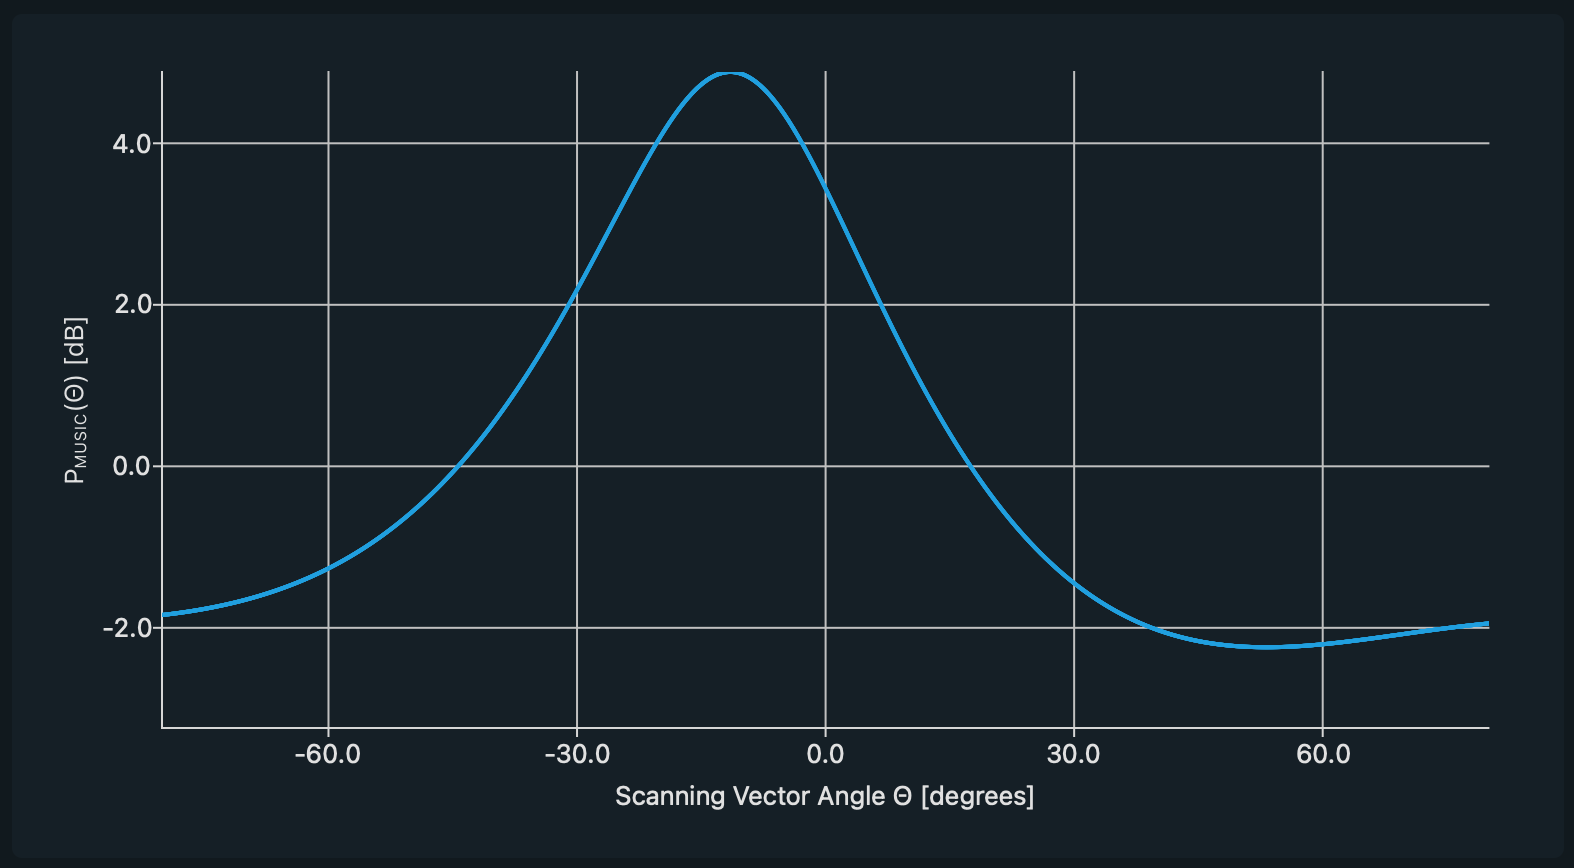
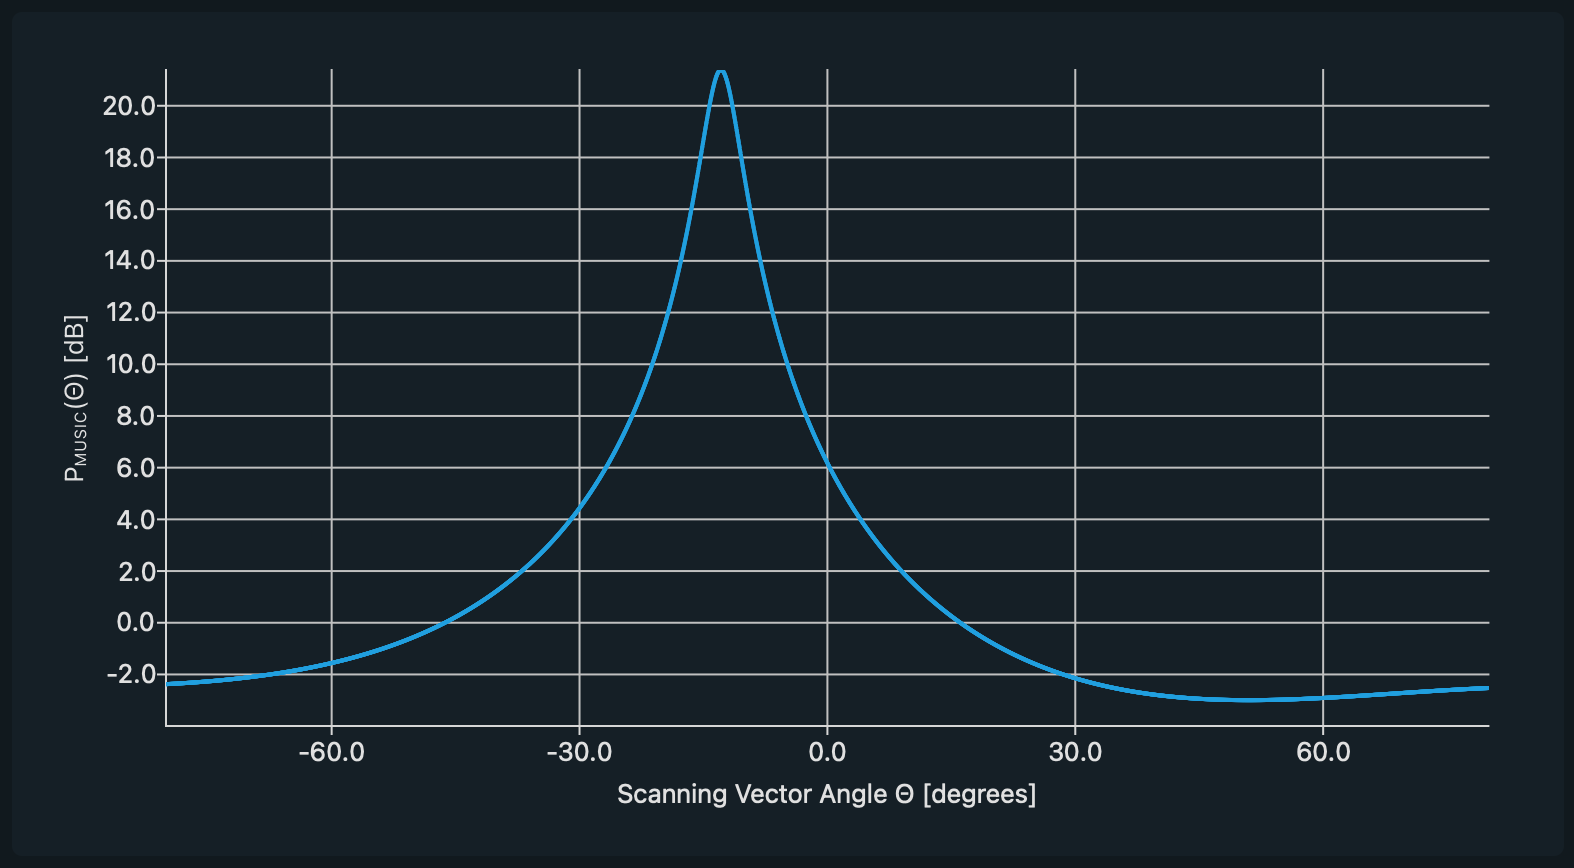
Measurement

diff --git a/matlab/music_125MHz_M64_1m_0deg/cfr.m b/matlab/music_125MHz_M64_1m_0deg/cfr.m
@@ -1,38 +1,38 @@
 % Auto-generated MATLAB script
 clear;
 CH0_315 = [ ...
-0 + 1i*0, -0.756493 + 1i*1.19057, -0.694099 + 1i*1.2112, -0.630553 + 1i*1.22654, -0.566332 + 1i*1.23655,  ...
--0.501912 + 1i*1.24124, -0.437751 + 1i*1.24066, -0.374297 + 1i*1.23486, 0 + 1i*0, 0 + 1i*0,  ...
-0 + 1i*0, 0 + 1i*0, 0 + 1i*0, -0.0314182 + 1i*1.09814, 0.0159527 + 1i*1.06007,  ...
-0.0596516 + 1i*1.01825, 0.0993877 + 1i*0.972929, 0.13489 + 1i*0.924388, 0.165908 + 1i*0.872912, 0.192204 + 1i*0.818799,  ...
-0.21356 + 1i*0.762356, 0.229773 + 1i*0.703899, 0.240657 + 1i*0.643752, 0.246038 + 1i*0.582246, 0.24576 + 1i*0.519722,  ...
-0.239678 + 1i*0.456524, 0 + 1i*0, 0 + 1i*0, 0 + 1i*0, 0 + 1i*0,  ...
 0 + 1i*0, 0 + 1i*0, 0 + 1i*0, 0 + 1i*0, 0 + 1i*0,  ...
-0 + 1i*0, 0 + 1i*0, 0 + 1i*0, 0 + 1i*0, -0.601522 + 1i*-0.11979,  ...
--0.694872 + 1i*-0.106068, -0.781809 + 1i*-0.083295, -0.861917 + 1i*-0.0522893, -0.934846 + 1i*-0.0138833, -1.00031 + 1i*0.0310843,  ...
--1.05809 + 1i*0.0817752, -1.10804 + 1i*0.137354, -1.15005 + 1i*0.196996, -1.18411 + 1i*0.259891, -1.21024 + 1i*0.325249,  ...
--1.22853 + 1i*0.392305, -1.23912 + 1i*0.460319, -1.24221 + 1i*0.528585, -1.23804 + 1i*0.596432, -1.2269 + 1i*0.663228,  ...
--1.2091 + 1i*0.728378, -1.185 + 1i*0.791334, -1.15501 + 1i*0.851588, -1.11953 + 1i*0.908678, -1.079 + 1i*0.96219,  ...
--1.03389 + 1i*1.01175, -0.984672 + 1i*1.05704, -0.931828 + 1i*1.09778, -0.875853 + 1i*1.13374];
-CH1_315 = [ ...
-0 + 1i*0, -2.72753 + 1i*-0.0173477, -2.70131 + 1i*-0.108984, -2.66736 + 1i*-0.198517, -2.62592 + 1i*-0.28539,  ...
--2.57727 + 1i*-0.369067, -2.52171 + 1i*-0.449037, -2.45954 + 1i*-0.524811, 0 + 1i*0, 0 + 1i*0,  ...
-0 + 1i*0, 0 + 1i*0, 0 + 1i*0, -1.96777 + 1i*-0.866719, -1.86968 + 1i*-0.901247,  ...
--1.76811 + 1i*-0.92843, -1.66353 + 1i*-0.947961, -1.5564 + 1i*-0.959551, -1.44722 + 1i*-0.962927, -1.33649 + 1i*-0.957837,  ...
--1.22473 + 1i*-0.944042, -1.11249 + 1i*-0.921322, -1.0003 + 1i*-0.889474, -0.888758 + 1i*-0.848313, -0.778452 + 1i*-0.797673,  ...
--0.67 + 1i*-0.737408, 0 + 1i*0, 0 + 1i*0, 0 + 1i*0, 0 + 1i*0,  ...
+0 + 1i*0, 0 + 1i*0, -0.260548 + 1i*0.573105, -0.310202 + 1i*0.655967, -0.359087 + 1i*0.731986,  ...
+-0.40693 + 1i*0.801499, -0.45351 + 1i*0.864824, -0.498653 + 1i*0.922261, -0.542223 + 1i*0.974091, -0.584119 + 1i*1.02058,  ...
+-0.624266 + 1i*1.06197, -0.662611 + 1i*1.09849, -0.69912 + 1i*1.13036, -0.733773 + 1i*1.15779, -0.766561 + 1i*1.18096,  ...
+-0.797484 + 1i*1.20006, -0.826547 + 1i*1.21526, -0.853758 + 1i*1.22672, -0.879127 + 1i*1.23459, -0.902662 + 1i*1.23904,  ...
+-0.924373 + 1i*1.24019, -0.944264 + 1i*1.23819, -0.962337 + 1i*1.23319, -0.978589 + 1i*1.2253, -0.993014 + 1i*1.21467,  ...
+-1.0056 + 1i*1.20143, -1.01633 + 1i*1.18569, 0 + 1i*0, -1.03212 + 1i*1.14727, -1.03712 + 1i*1.12485,  ...
+-1.04014 + 1i*1.10045, -1.04115 + 1i*1.0742, -1.04009 + 1i*1.04623, -1.03691 + 1i*1.01667, -1.03157 + 1i*0.98566,  ...
 0 + 1i*0, 0 + 1i*0, 0 + 1i*0, 0 + 1i*0, 0 + 1i*0,  ...
-0 + 1i*0, 0 + 1i*0, 0 + 1i*0, 0 + 1i*0, -0.711751 + 1i*0.846493,  ...
--0.852184 + 1i*0.948085, -0.992553 + 1i*1.03319, -1.13194 + 1i*1.10239, -1.26948 + 1i*1.15633, -1.40435 + 1i*1.19568,  ...
--1.53578 + 1i*1.22111, -1.66307 + 1i*1.23336, -1.78553 + 1i*1.23316, -1.90258 + 1i*1.22126, -2.01365 + 1i*1.19845,  ...
--2.11824 + 1i*1.16549, -2.21592 + 1i*1.12317, -2.30628 + 1i*1.0723, -2.38899 + 1i*1.01367, -2.46376 + 1i*0.948055,  ...
--2.53036 + 1i*0.876256, -2.5886 + 1i*0.799048, -2.63834 + 1i*0.717199, -2.67948 + 1i*0.631466, -2.71198 + 1i*0.542589,  ...
--2.73583 + 1i*0.451296, -2.75104 + 1i*0.358293, -2.75771 + 1i*0.26427, -2.75591 + 1i*0.169894];
+-0.950913 + 1i*0.776087, -0.928836 + 1i*0.738405, -0.904145 + 1i*0.70025, -0.876788 + 1i*0.661728, -0.846718 + 1i*0.622935,  ...
+-0.813887 + 1i*0.583962, -0.778255 + 1i*0.544885, -0.739783 + 1i*0.505769, -0.698437 + 1i*0.466664, -0.65419 + 1i*0.427604,  ...
+-0.607015 + 1i*0.3886, -0.556895 + 1i*0.349644, -0.503818 + 1i*0.310703, 0 + 1i*0, 0 + 1i*0,  ...
+0 + 1i*0, 0 + 1i*0, 0 + 1i*0, 0 + 1i*0];
+CH1_314 = [ ...
+0 + 1i*0, 0 + 1i*0, 0 + 1i*0, 0 + 1i*0, 0 + 1i*0,  ...
+0 + 1i*0, 0 + 1i*0, -0.691818 + 1i*0.126097, -0.799543 + 1i*0.145254, -0.900235 + 1i*0.163143,  ...
+-0.99412 + 1i*0.179839, -1.08142 + 1i*0.195398, -1.16236 + 1i*0.209869, -1.23714 + 1i*0.22329, -1.30598 + 1i*0.235689,  ...
+-1.36908 + 1i*0.247093, -1.42665 + 1i*0.25752, -1.47886 + 1i*0.266989, -1.52592 + 1i*0.275513, -1.568 + 1i*0.283106,  ...
+-1.60527 + 1i*0.289782, -1.63791 + 1i*0.295556, -1.66608 + 1i*0.300443, -1.68993 + 1i*0.304459, -1.70962 + 1i*0.307623,  ...
+-1.72528 + 1i*0.309956, -1.73705 + 1i*0.311481, -1.74507 + 1i*0.312224, -1.74945 + 1i*0.312213, -1.75031 + 1i*0.311476,  ...
+-1.74776 + 1i*0.310047, -1.7419 + 1i*0.307961, 0 + 1i*0, -1.72065 + 1i*0.301962, -1.70544 + 1i*0.298125,  ...
+-1.68726 + 1i*0.293784, -1.6662 + 1i*0.288976, -1.64232 + 1i*0.283744, -1.61567 + 1i*0.278127, -1.58632 + 1i*0.27216,  ...
+0 + 1i*0, 0 + 1i*0, 0 + 1i*0, 0 + 1i*0, 0 + 1i*0,  ...
+-1.35563 + 1i*0.230899, -1.30835 + 1i*0.223339, -1.25859 + 1i*0.215616, -1.20635 + 1i*0.207727, -1.15163 + 1i*0.199661,  ...
+-1.09443 + 1i*0.191392, -1.03473 + 1i*0.182887, -0.972532 + 1i*0.1741, -0.907809 + 1i*0.16497, -0.840541 + 1i*0.155419,  ...
+-0.770706 + 1i*0.145356, -0.698277 + 1i*0.134668, -0.623225 + 1i*0.123223, 0 + 1i*0, 0 + 1i*0,  ...
+0 + 1i*0, 0 + 1i*0, 0 + 1i*0, 0 + 1i*0];
 figure;subplot(2,1,1); hold on;plot(abs(CH0_315), 'DisplayName', 'CH0_315');title('Channel Frequency Response Gain'); legend; grid on;
 subplot(2,1,2); hold on;plot(angle(CH0_315), 'DisplayName', 'CH0_315');title('Channel Frequency Response Phase'); legend; grid on;
 figure;plot(real(CH0_315), imag(CH0_315), '.', 'DisplayName', 'CH0_315'); hold on;title('CFR'); xlabel('Real'); ylabel('Imag'); axis equal; legend; grid on;
 
-figure;subplot(2,1,1); hold on;plot(abs(CH1_315), 'DisplayName', 'CH1_315');title('Channel Frequency Response Gain'); legend; grid on;
-subplot(2,1,2); hold on;plot(angle(CH1_315), 'DisplayName', 'CH1_315');title('Channel Frequency Response Phase'); legend; grid on;
-figure;plot(real(CH1_315), imag(CH1_315), '.', 'DisplayName', 'CH1_315'); hold on;title('CFR'); xlabel('Real'); ylabel('Imag'); axis equal; legend; grid on;
+figure;subplot(2,1,1); hold on;plot(abs(CH1_314), 'DisplayName', 'CH1_314');title('Channel Frequency Response Gain'); legend; grid on;
+subplot(2,1,2); hold on;plot(angle(CH1_314), 'DisplayName', 'CH1_314');title('Channel Frequency Response Phase'); legend; grid on;
+figure;plot(real(CH1_314), imag(CH1_314), '.', 'DisplayName', 'CH1_314'); hold on;title('CFR'); xlabel('Real'); ylabel('Imag'); axis equal; legend; grid on;
 

diff --git a/matlab/music_125MHz_M64_1m_0deg/cbdata.m b/matlab/music_125MHz_M64_1m_0deg/cbdata.m
@@ -1,26 +1,26 @@
 % Auto-generated MATLAB script
 clear;
-CH1_315 = [ ...
--1.13991 + 1i*0.0117758, -0.547915 + 1i*0.0102773, -1.17759 + 1i*0.00883894, 0.687242 + 1i*0.0126127, 1.10613 + 1i*0.0157179,  ...
-1.33475 + 1i*-0.000412613, 0.824223 + 1i*-0.00377806, 0.921548 + 1i*-0.00880509, -1.06165 + 1i*-0.0277397, -0.612795 + 1i*-0.00449629,  ...
-1.97696 + 1i*0.00432433, -1.17954 + 1i*-0.0259629, 1.14707 + 1i*0.0109635, 1.66981 + 1i*-0.00446435, -0.851286 + 1i*-0.0116661,  ...
--1.00199 + 1i*-0.00553581, -1.24281 + 1i*-0.00372911, -1.00872 + 1i*-0.0199412, 1.1565 + 1i*-0.0226182, 1.02327 + 1i*-0.000667423,  ...
--0.891021 + 1i*0.00732467, -0.561961 + 1i*0.00758465, -0.671515 + 1i*-0.000204414, -0.691531 + 1i*-0.00244347, 1.48383 + 1i*0.00218936,  ...
--1.22131 + 1i*0.00151374, -1.76612 + 1i*0.0291747, 1.14379 + 1i*0.0112159, 1.17002 + 1i*-0.0061584, -0.711653 + 1i*0.0129049,  ...
--1.30392 + 1i*0.0271936, 0.858175 + 1i*0.0171559, 1.14183 + 1i*0.0118412, -1.09192 + 1i*0.0210863, 1.18177 + 1i*0.00451602,  ...
--1.25646 + 1i*0.014564, -0.725058 + 1i*0.0161166, -1.37543 + 1i*0.0221847, -0.736798 + 1i*0.0157939, -1.24062 + 1i*0.0265669 ...
+CH1_314 = [ ...
+-1.13523 + 1i*0.0313753, -0.561437 + 1i*0.0160359, -1.19143 + 1i*0.0233465, 0.669344 + 1i*-0.00138872, 1.10064 + 1i*0.00255027,  ...
+1.32846 + 1i*-0.0104956, 0.841756 + 1i*-0.00928016, 0.923082 + 1i*-0.0277279, -1.04914 + 1i*-0.0148106, -0.616325 + 1i*0.00869305,  ...
+1.9821 + 1i*-0.0162873, -1.16557 + 1i*-0.0138167, 1.13763 + 1i*0.00042662, 1.68378 + 1i*0.0260591, -0.818951 + 1i*-0.0158932,  ...
+-1.00281 + 1i*0.00649786, -1.24027 + 1i*-0.0152866, -1.0382 + 1i*-0.0341153, 1.13994 + 1i*0.00606872, 1.01702 + 1i*-0.00174995,  ...
+-0.875229 + 1i*0.0143365, -0.576319 + 1i*0.00865679, -0.687217 + 1i*0.00108128, -0.699277 + 1i*-0.00122319, 1.49043 + 1i*-0.0154509,  ...
+-1.21256 + 1i*0.0102425, -1.77578 + 1i*0.0193692, 1.12231 + 1i*0.000380427, 1.15664 + 1i*-0.00865785, -0.698689 + 1i*0.00991461,  ...
+-1.29693 + 1i*0.00919054, 0.844781 + 1i*0.0100074, 1.15008 + 1i*-0.00576032, -1.08255 + 1i*0.0108453, 1.18431 + 1i*-0.00238316,  ...
+-1.23831 + 1i*0.0154847, -0.708295 + 1i*0.0110833, -1.3655 + 1i*0.033489, -0.730446 + 1i*0.0314685, -1.23773 + 1i*0.0281864 ...
 ];
 CH0_315 = [ ...
--1.15187 + 1i*0.00682783, -0.589057 + 1i*0.0039002, -1.24641 + 1i*0.0154662, 0.635991 + 1i*0.0087477, 1.11167 + 1i*-0.00173488,  ...
-1.37957 + 1i*-0.023421, 0.844288 + 1i*0.00941002, 0.963491 + 1i*-0.0175464, -1.043 + 1i*0.0368126, -0.641413 + 1i*0.0562358,  ...
-1.98491 + 1i*-0.0129439, -1.20425 + 1i*0.0217459, 1.07596 + 1i*-0.00581323, 1.71343 + 1i*-0.0413048, -0.749721 + 1i*0.0367071,  ...
--0.963903 + 1i*0.0545623, -1.27482 + 1i*0.0215292, -1.06903 + 1i*0.0425746, 1.12565 + 1i*-0.00448872, 1.06968 + 1i*-0.0170377,  ...
--0.807645 + 1i*0.0343072, -0.547792 + 1i*0.0204688, -0.702529 + 1i*-0.000377774, -0.733429 + 1i*0.0136494, 1.49708 + 1i*-0.0237372,  ...
--1.17899 + 1i*0.00205819, -1.84024 + 1i*0.0361387, 1.06299 + 1i*-0.0141332, 1.17992 + 1i*-0.0329579, -0.680158 + 1i*-0.00939146,  ...
--1.35997 + 1i*0.00587583, 0.793096 + 1i*-0.0339537, 1.16856 + 1i*-0.0492654, -1.08722 + 1i*-0.00192165, 1.21687 + 1i*-0.0468404,  ...
--1.2149 + 1i*-0.0183538, -0.707771 + 1i*-0.0243038, -1.35473 + 1i*0.00839727, -0.727729 + 1i*-0.00205589, -1.25051 + 1i*0.00306337 ...
+-1.14162 + 1i*0.0307025, -0.563271 + 1i*0.0101769, -1.19146 + 1i*0.0302859, 0.662704 + 1i*0.013539, 1.10098 + 1i*-0.00447591,  ...
+1.31863 + 1i*-0.0460218, 0.816155 + 1i*0.00426104, 0.932171 + 1i*-0.0477816, -1.04786 + 1i*0.0188936, -0.600263 + 1i*0.0347004,  ...
+1.9758 + 1i*-0.0282977, -1.18398 + 1i*0.0194024, 1.11471 + 1i*-0.0116824, 1.65763 + 1i*-0.0445036, -0.778729 + 1i*0.0246647,  ...
+-0.962109 + 1i*0.0104542, -1.23089 + 1i*0.0131502, -1.00242 + 1i*-0.0109252, 1.12775 + 1i*0.0139332, 1.0346 + 1i*-0.0027409,  ...
+-0.852984 + 1i*0.00866604, -0.559247 + 1i*-0.000352285, -0.697362 + 1i*-0.0166219, -0.709013 + 1i*-0.00231896, 1.48246 + 1i*0.0220276,  ...
+-1.2125 + 1i*-0.010262, -1.76899 + 1i*0.021745, 1.09369 + 1i*0.000827414, 1.14709 + 1i*-0.0253055, -0.696244 + 1i*-0.00281729,  ...
+-1.29708 + 1i*0.0260641, 0.819037 + 1i*-0.0103876, 1.13234 + 1i*-0.0126059, -1.05759 + 1i*0.0109042, 1.17366 + 1i*-0.0309067,  ...
+-1.23313 + 1i*-0.00259542, -0.709235 + 1i*0.00363601, -1.34693 + 1i*0.0176974, -0.734145 + 1i*0.00693059, -1.21825 + 1i*0.0146615 ...
 ];
-figure;plot(real(CH1_315), imag(CH1_315), '.', 'DisplayName', 'CH1_315'); hold on;
+figure;plot(real(CH1_314), imag(CH1_314), '.', 'DisplayName', 'CH1_314'); hold on;
 plot(real(CH0_315), imag(CH0_315), '.', 'DisplayName', 'CH0_315'); hold on;
 title('Received Data'); xlabel('Real'); ylabel('Imag'); axis equal; legend; grid on;
 
